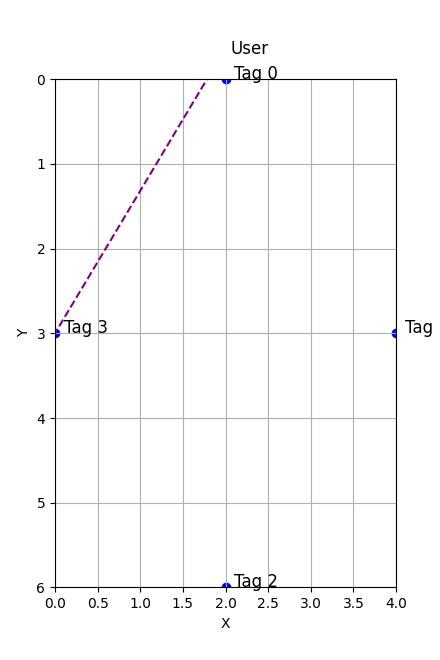
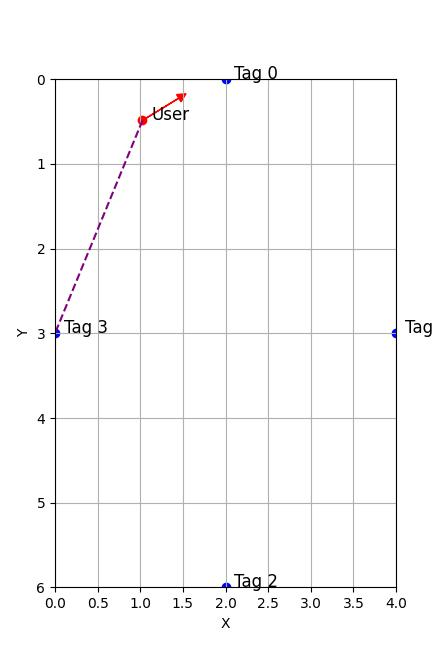
1004 corrected

diff --git a/src/calculate_pose_pnp.py b/src/calculate_pose_pnp.py
@@ -58,7 +58,7 @@ def rvec_to_euler_angles(rvec):
 
 
 # Main function to calculate the pose (translation, yaw, pitch, roll) using solvePnP
-def calculate_pose(apriltag_data, tag_id, detected_tag_info, camera_matrix, dist_coeffs, tag_size):
+def calculate_pose(apriltag_data, tag_id, detected_tag_info, camera_matrix, dist_coeffs, tag_size, resize):
     # Extract the corners of the detected AprilTag
     for tag in detected_tag_info:
         if tag["id"] == tag_id:
@@ -72,10 +72,41 @@ def calculate_pose(apriltag_data, tag_id, detected_tag_info, camera_matrix, dist
             
             # Convert rotation vector to Euler angles (yaw, pitch, roll)
             roll, pitch, yaw = rvec_to_euler_angles(rvec)
-            print(f"  Roll: {roll:.2f}, Pitch: {pitch:.2f}, Yaw: {yaw:.2f}")
+            print(f"  Roll: {roll:.2f} degrees, Pitch: {pitch:.2f} degrees, Yaw: {yaw:.2f} degrees")
+
+            # Calculate the distance to the tag
+            print("======================================")
+            tvec_resized = tvec * resize
+            print(f"resized tvec: {tvec_resized}")
+            t_x = tvec_resized[0][0]
+            t_y = tvec_resized[1][0]
+            t_z = tvec_resized[2][0]
+            distance = t_z
+            print(f"Distance: {distance:.2f} meters")
+
+            # Calculate the angle of the tag from the camera
+            horizontal_angle_rad = np.arctan2(t_x, t_z)
+            horizontal_angle_deg = np.degrees(horizontal_angle_rad)
+            print(f"Horizontal Angle: {horizontal_angle_deg:.2f} degrees")
 
             # Get the tag's real-world position and yaw (from apriltag_data)
             tag_real_position = apriltag_data["apriltags"][tag_id]["position"]
             tag_real_x, tag_real_y, tag_real_z, tag_real_facing_angle = tag_real_position
+
+            # Calculate the camera's position and yaw
+            camera_x = tag_real_x + distance * np.sin(np.deg2rad(pitch))
+            camera_y = tag_real_y + distance * np.cos(np.deg2rad(pitch))
+            camera_yaw = tag_real_facing_angle - 180 - pitch - horizontal_angle_deg
+            print("======================================")
+            print(f"Camera Position: ({camera_x:.2f}, {camera_y:.2f})")
+            print(f"Camera Angle: {camera_yaw:.2f} degrees")
+
+            # Return the pose information
+            return {
+                "x": camera_x,
+                "y": camera_y,
+                "yaw": camera_yaw
+            }
+
         
     return None  # If no matching tag is found

diff --git a/test_pnp.py b/test_pnp.py
@@ -3,7 +3,7 @@ import numpy as np
 import json
 
 # parameters
-image_number = "0_middle"
+image_number = "0_right"
 image_path = f"test_images/{image_number}.jpg"
 print("======================================")
 print(f"image_path: {image_path}")
@@ -12,13 +12,15 @@ real_tag_size = 0.1
 target_tag_id = 3
 
 # Calculate the center points
-# image_width = 4031
-# image_height = 3023
-image_width = 1330
-image_height = 997
+org_image_width = 4031
+org_image_height = 3023
+resize = 0.33
+image_width = int(org_image_width * resize)
+image_height = int(org_image_height * resize)
+print(f"  image_width: {image_width}, image_height: {image_height}")
 camera_focal_length = 26 * image_width / 7.03
-c_x = round(1330/2)
-c_y = round(997/2)
+c_x = round(image_width / 2)
+c_y = round(image_height / 2)
 camera_matrix = np.array([[camera_focal_length, 0, c_x],
                           [0, camera_focal_length, c_y],
                           [0, 0, 1]])
@@ -39,7 +41,7 @@ def main():
 
     # Extract the first detected tag's pose (translation and rotation)
     tag_id = detected_info[0]["id"]
-    pose = calculate_pose_pnp.calculate_pose(apriltag_data, tag_id, detected_info, camera_matrix, dist_coeffs, real_tag_size)
+    pose = calculate_pose_pnp.calculate_pose(apriltag_data, tag_id, detected_info, camera_matrix, dist_coeffs, real_tag_size, resize)
     if pose is None:
         print(f"No pose found for tag ID {tag_id}")
         return None
@@ -62,8 +64,3 @@ def main():
 
 if __name__ == "__main__":
     main()
-
-
-            # roll, pitch, yaw = rvec_to_euler_angles(rvec)
-            # roll, pitch, yaw = np.degrees(roll)%360, np.degrees(pitch)%360, np.degrees(yaw)%360
-            # print(f"  Roll: {roll:.2f}, Pitch: {pitch:.2f}, Yaw: {yaw:.2f}")
